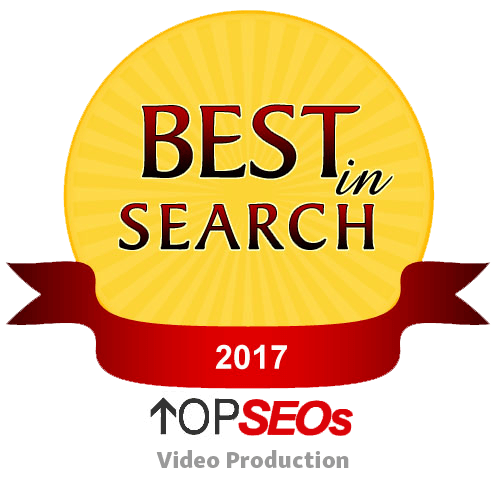
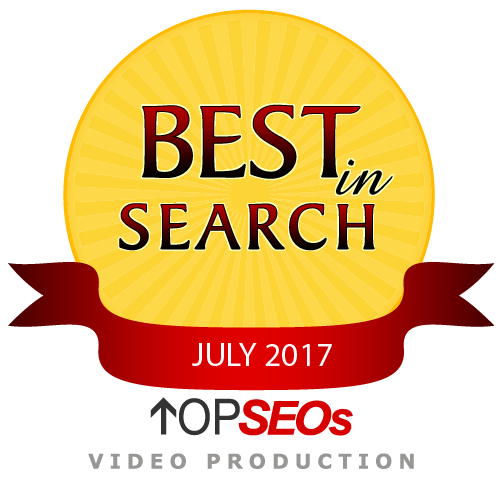
Updating awards

diff --git a/css/examples.css b/css/examples.css
@@ -152,7 +152,6 @@ dd{padding-top:0;padding-bottom:2px;font-size:16px}
 .video-banner{margin-left:auto;margin-right:auto;width:98.626%;padding-left:.1869%;padding-right:.1869%;max-width:1032px}
 .video-presentations,.whiteboard-video,.animation,.basic-video,.green-screen-video{overflow:hidden;margin-top:4px}
 .website-spokesperson-description,.custom-video-description,.green-screen-video-description,.whiteboard-video-description,.basic-video-description{text-align:justify;font-size:1.2em;line-height:1.1em;margin:15px auto 0;border:2px solid rgba(120,140,255,1.00);background-color:#F5F6F8;border-radius:10px;padding:8px 8px 4px}
-.animation-video-description{text-align:justify;font-size:1.4em;line-height:1.4em;margin:10px auto;border:2px solid rgba(120,140,255,1.00);background-color:#F5F6F8;border-radius:10px;padding:12px}
 .example-holder-web{width:33%;float:left;padding-left:10px;padding-right:10px}
 #example-text a{color:#000}
 #example-text a:hover{font-weight:bolder}
@@ -192,3 +191,5 @@ dd{padding-top:0;padding-bottom:2px;font-size:16px}
 .media-body{font-size: 18px;padding-left: 10px}
 .media{margin-top:30px; border-bottom: thin solid #1981FF;padding-bottom: 20px}
 .media:first-child {border-top:  thin solid #1981FF;padding-top: 20px}
+#form-holder{margin-bottom: 10px}
+.best-explainer{width: 25%}

diff --git a/videopresentations/animation.php b/videopresentations/animation.php
@@ -37,20 +37,21 @@
     <?php include ('../includes/header.php'); ?>
     <section id="jumbotron">
         <h1>Animated Explainer Videos!</h1>
+                        <h2>Talking Heads<sup>&reg;</sup> can explain your product, service or procedure in an Animated Explainer Video!</h2> 
+                        <h3>Our Animated Explainer Videos powerfully expain things step-by-step, and it keep your viewers' attention!</h3>
         <div class="info">
             <div class="row center-block p25">
-                <div class="col-sm-6 col-sm-offset-1">
+                <div class="col-sm-6 col-sm-offset-1" id="jumbo-video">
                     <!-- 16:9 aspect ratio -->
                     <div class="embed-responsive embed-responsive-16by9">
                         <iframe class="embed-responsive-item" src="https://www.youtube.com/embed/jZEI_x0akE4?rel=0"></iframe>
                     </div>
                 </div>
                 <div class="col-sm-4">
+                   <div id="form-holder">
                     <?php include ('../forms/requestQuote-Animation.php'); ?>
-                    <div class="product-info">
-                        <article class="animation-video-description">Talking Heads<sup>&reg;</sup> can explain your product, service or procedure in an Animated Explainer Video! Our Animated Explainer Videos powerfully expain things step-by-step, and it keep your viewers' attention!</article>
-                    </div>
-                </div>
+                   </div>
+                <img src="../images/explainer-video-banner.png" alt="Best Explainer Video Companies" class="img img-responsive" id="explainer-seal"/> </div>
             </div>
         </div>
         <div class="line"></div>
@@ -72,6 +73,14 @@
     <?php include ('../includes/CallForQuote.php'); ?>
     <?php include ('../includes/footer.php'); ?>
     <?php include ('../includes/chatform.php'); ?>
+    <script>
+        $(document).ready(function(){
+            var videoHeight = $('#jumbo-video').height();
+            var newHeight = (videoHeight-$('#form-holder').outerHeight());
+            console.log(' v'+videoHeight + '-' + newHeight);
+            $('#explainer-seal').css('max-height',newHeight);
+        })
+        </script>
 </body>
 
 </html>

diff --git a/whiteboard/index.php b/whiteboard/index.php
@@ -98,11 +98,6 @@
                                     <button name="submit" class="btn btn-custom" id="submit">
                 <h2 class="need-video">I Need Video!</h2>
                 </button>
-                                
-
-
-
-
                                 </div>
                             </div>
                         </fieldset>
@@ -148,7 +143,7 @@
     <section class="container">
         <div class="no-1">
             <h1 class="text-center">Custom Whiteboard Video</h1>
-            <img src="../images/video-production-seal.png" alt="#1 Video Production" width="340" title="Best in Search #1 Video Production"/>
+            <img src="../images/explainer-video-seal.png" alt="Best Explainer Video Companies" class="best-explainer" title="Best Explainer Video Companies"/>
             <h3>Keep your visitor's attention and boost sales.</h3>
             <p>At Talking Heads we don't just make whiteboard sketch videos. We have spent years studying the art of persuasion and communication. Your story must be told well. So we collaborate to customize and create a video that boost leads and increases sales in your product or service.</p>
             <p>Talking Heads' Sketch videos stimulate your viewers' brains. Mirror neutrons in the brain make the viewer think it's his or her hand drawing, triggering a dopamine rush in the brain and increase the viewers capacity to focus and remember. The brain is now curious and pays more attention wondering what the whiteboard drawing will become. As it tries to guess what the sketch will become, it focuses more and rewards itself. This happens over and over. Whiteboard sketch is like a time machine with each new drawing practically hypnotizing your viewer. Because of this hyper focus, the viewer also remembers more of your whiteboard animation that regular videos.</p>

diff --git a/index.php b/index.php
@@ -42,16 +42,11 @@
                     </div>
                 </div>
                 <div class="row">
-                    <h4 class="pageinfo">#1 in Video Spokesperson</h4>
-                    <div class="col-sm-5 col-sm-offset-1"> <a href="#" data-toggle="tooltip" title="#1 in Video Spokesperson"><img class="best img img-responsive" src="images/video-spokesperson-seal.png" alt="Best in Search Video Spokesperson" id="BestInSearchSpokesperson" /></a>
-                    </div>
-                    <div class="col-sm-5">
-                        <h4 class="pageinfo">#1 in Video Production</h4>
-                        <a href="#" data-toggle="tooltip" title="#1 in Video Production"><img class="img img-responsive best" src="images/video-production-seal.png" alt="Best in Search Video Production" id="BestInSearchProduction" /></a> </div>
+                    <?php include("includes/seal-random-2.php"); ?>
                 </div>
                 <div class="row">
-                    <h4 class="pageinfo">#1 in Video Production</h4>
-                    <a href="#" data-toggle="tooltip" title="Winner Best Web Design Agencies - Video Production"><img class="img img-responsive videoProduction"  alt="Winner in Video Production" src="https://www.websitetalkingheads.com/images/video-production-winner.png"></a> </div>
+                   <?php include("includes/banner-random.php"); ?>
+                    </div>
             </div>
             <div class="col-md-4">
                 <?php include ("forms/contactform.php");?>

diff --git a/includes/banner-random.php b/includes/banner-random.php
@@ -1,0 +1,26 @@
+<?php
+require( "connect.php" );
+$sql = "SELECT * FROM awards WHERE type = 'banner' ORDER BY RAND() LIMIT 1";
+$result = $conn->query( $sql );
+if ( $result->num_rows > 0 ) {
+    $x = 1;
+    while ( $row = $result->fetch_assoc() ) {
+        $name = $row[ "name" ];
+        $alt = $row[ "alt" ];
+        echo( '<a href="#" data-toggle="tooltip" title="' . $alt . '">' );
+        echo PHP_EOL;
+        echo( '<h4 class="pageinfo">' . $name );
+        echo( '</h4' );
+        echo PHP_EOL;
+        echo( '<a href="#" data-toggle="tooltip" title="' . $alt . '">' );
+        echo PHP_EOL;
+        echo( '<a href="#" data-toggle="tooltip" title="' . $alt . '"><img class="best img img-responsive  videoProduction" src="images/' . $name . '.png" alt="' . $alt . '"/>' );
+        echo PHP_EOL;
+        echo( '</a>' );
+        echo PHP_EOL;
+    }
+} else {
+    echo "0 results";
+}
+echo PHP_EOL;
+?>

diff --git a/includes/seal-random-2.php b/includes/seal-random-2.php
@@ -1,0 +1,23 @@
+<?php
+require( "connect.php" );
+$sql = "SELECT * FROM awards WHERE type = 'seal' ORDER BY RAND() LIMIT 2";
+$result = $conn->query( $sql );
+if ( $result->num_rows > 0 ) {
+    echo PHP_EOL;
+    while ( $row = $result->fetch_assoc() ) {
+        $name = $row[ "name" ];
+        $alt = $row[ "alt" ];
+        echo( '     <div class="col-sm-5 col-sm-offset-1">' );
+        echo( '     <a href="#" data-toggle="tooltip" title="' . $alt . '"><h4 class="pageinfo">' . $name . '</h4');
+        echo PHP_EOL;
+        echo('<a href="#" data-toggle="tooltip" title="' . $alt . '">');
+        echo( '<a href="#" data-toggle="tooltip" title="' . $alt . '"><img class="best img img-responsive" src="images/' . $name . '.png" alt="' . $alt . '"  /></a>');
+        echo PHP_EOL;
+        echo( '     </div>' );
+        echo PHP_EOL;
+    }
+} else {
+    echo "0 results";
+}
+echo PHP_EOL;
+?>

diff --git a/includes/connect.php b/includes/connect.php
@@ -1,0 +1,22 @@
+<?php 
+error_reporting( 2 );
+//session_start();
+$servername = "vdb1b.pair.com";
+$username = "working_39";
+$password = "EsQBeq3E";
+$dbname = "working_examples";
+// Create connection
+$conn = mysqli_connect( $servername, $username, $password );
+// Check connection
+if ( !$conn ) {
+    die( "Connection failed: " . mysqli_connect_error() );
+    echo( "Connection failed: " . mysqli_connect_error() );
+    echo "<br>";
+}
+$db = mysqli_select_db( $conn, $dbname );
+
+if ( !$db ) {
+    die( "Connection failed: " . mysqli_connect_error() );
+    echo "<br>";
+}
+?>
